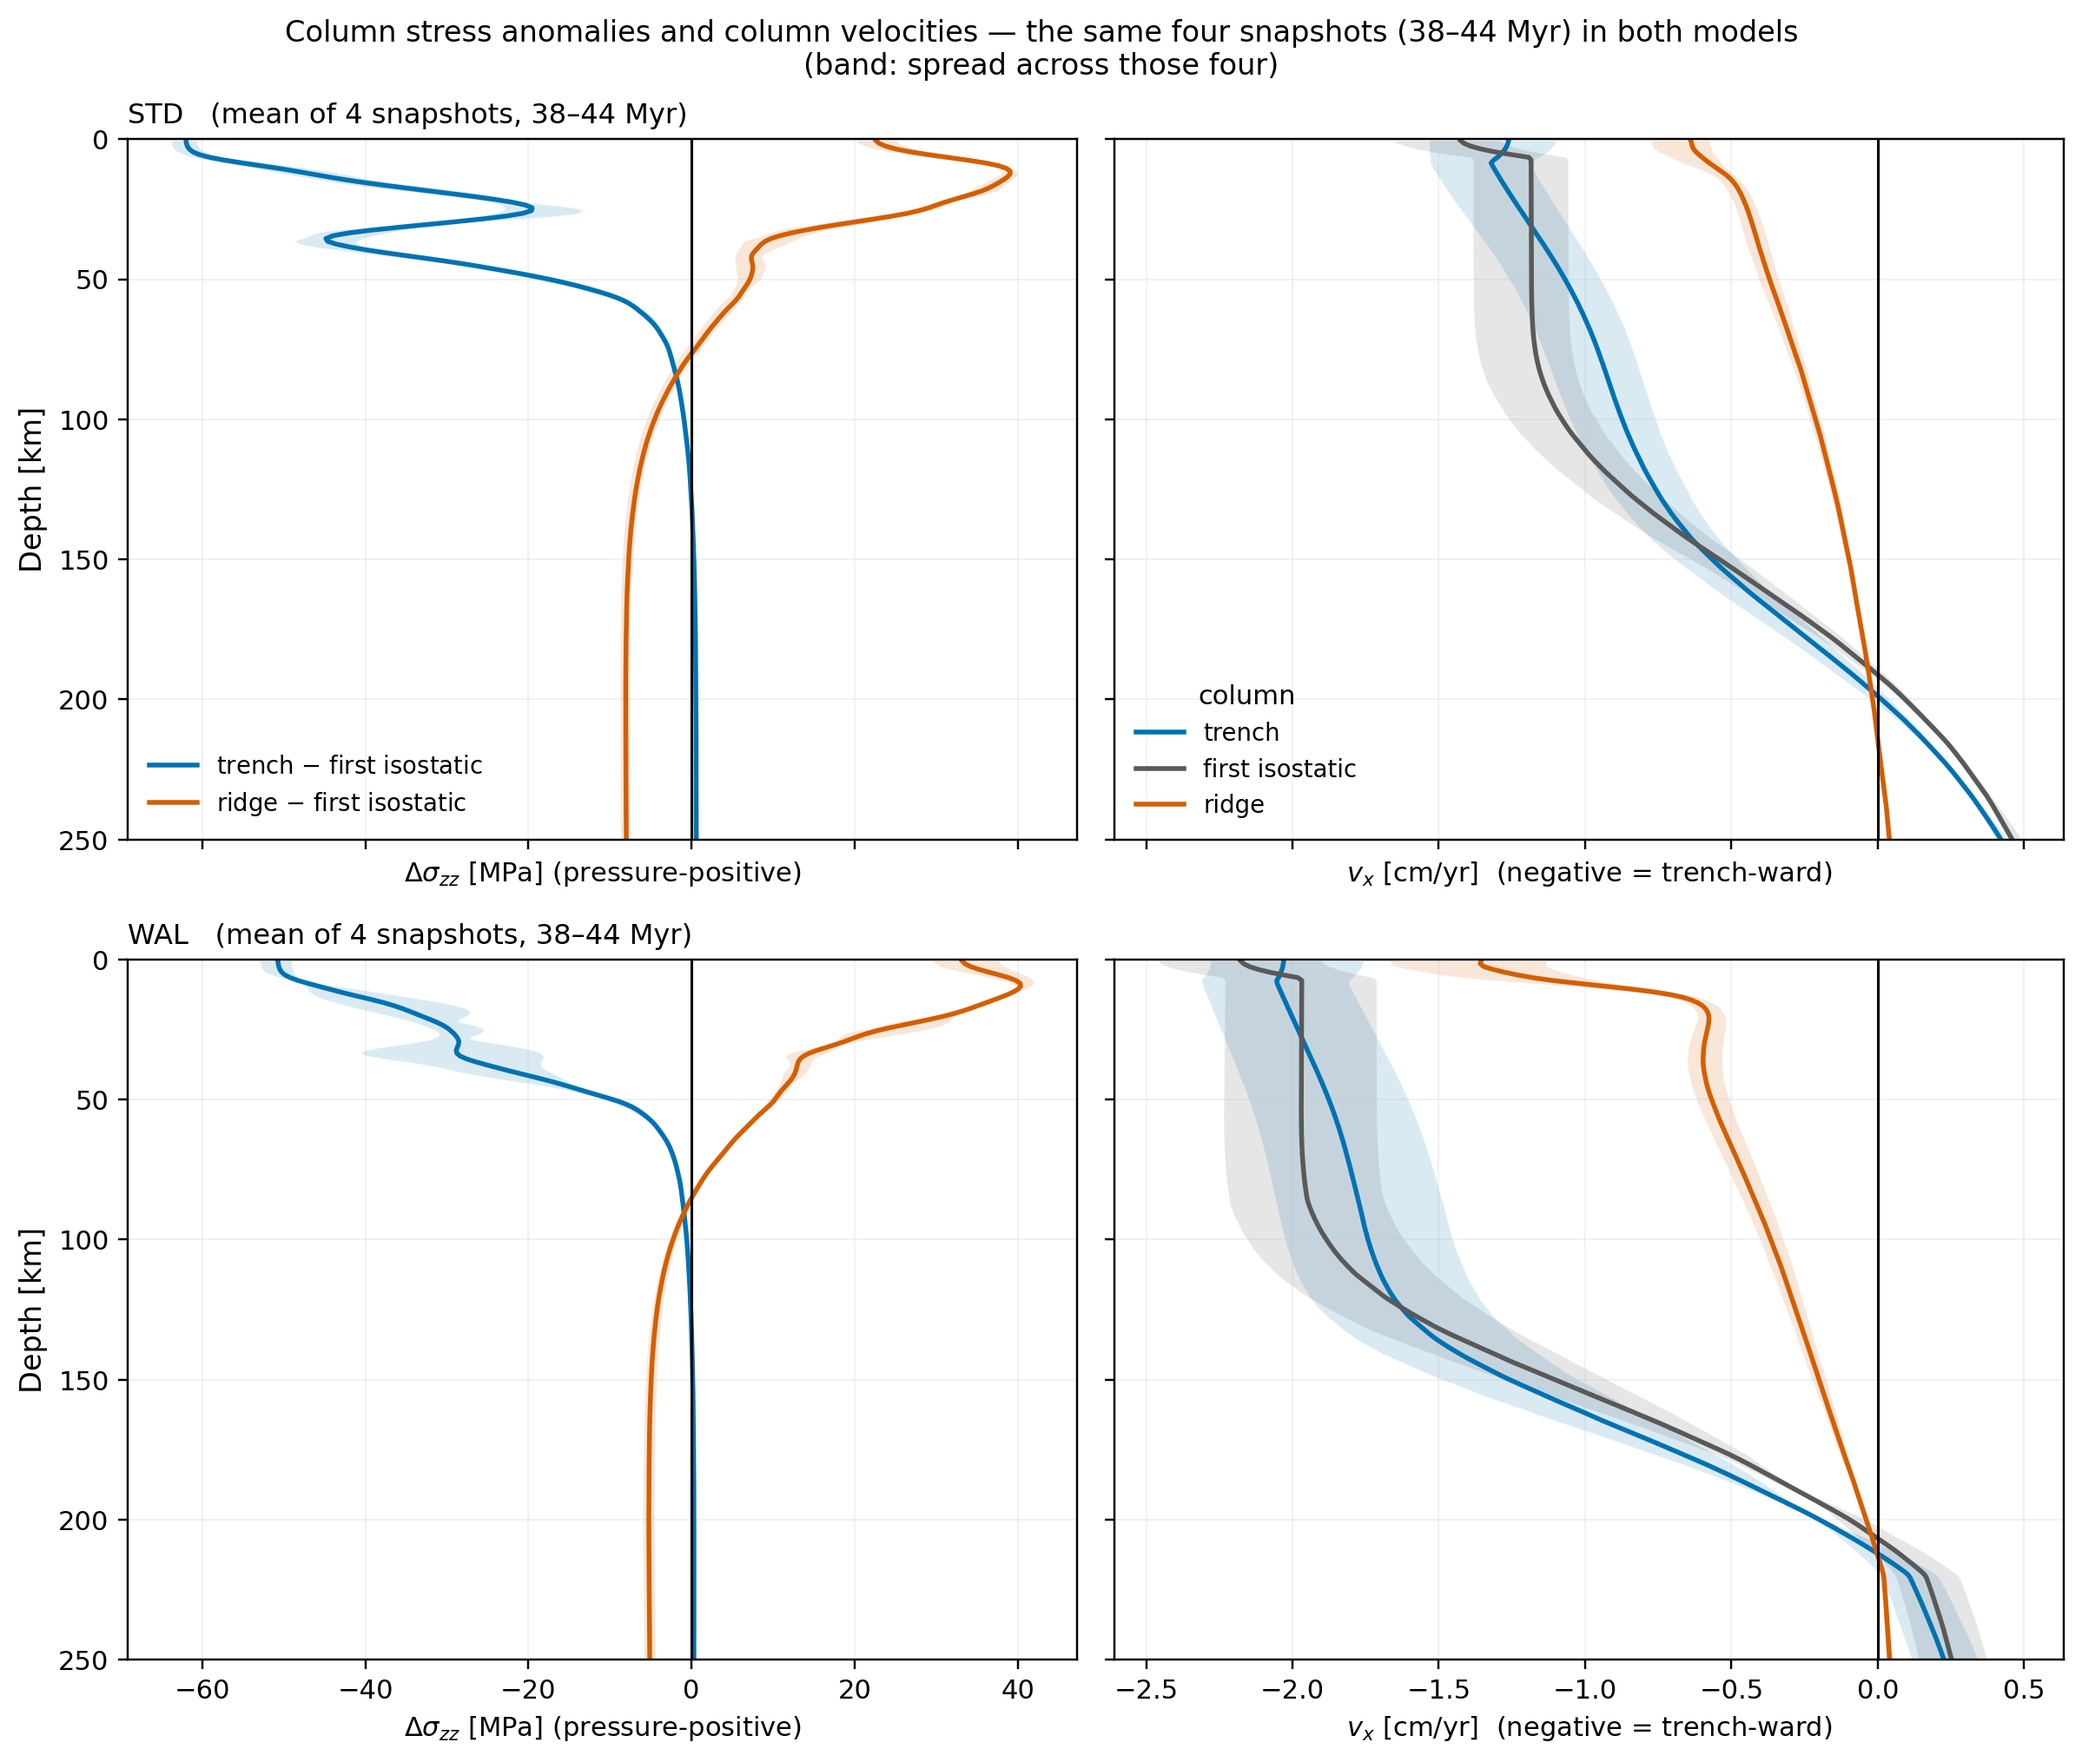
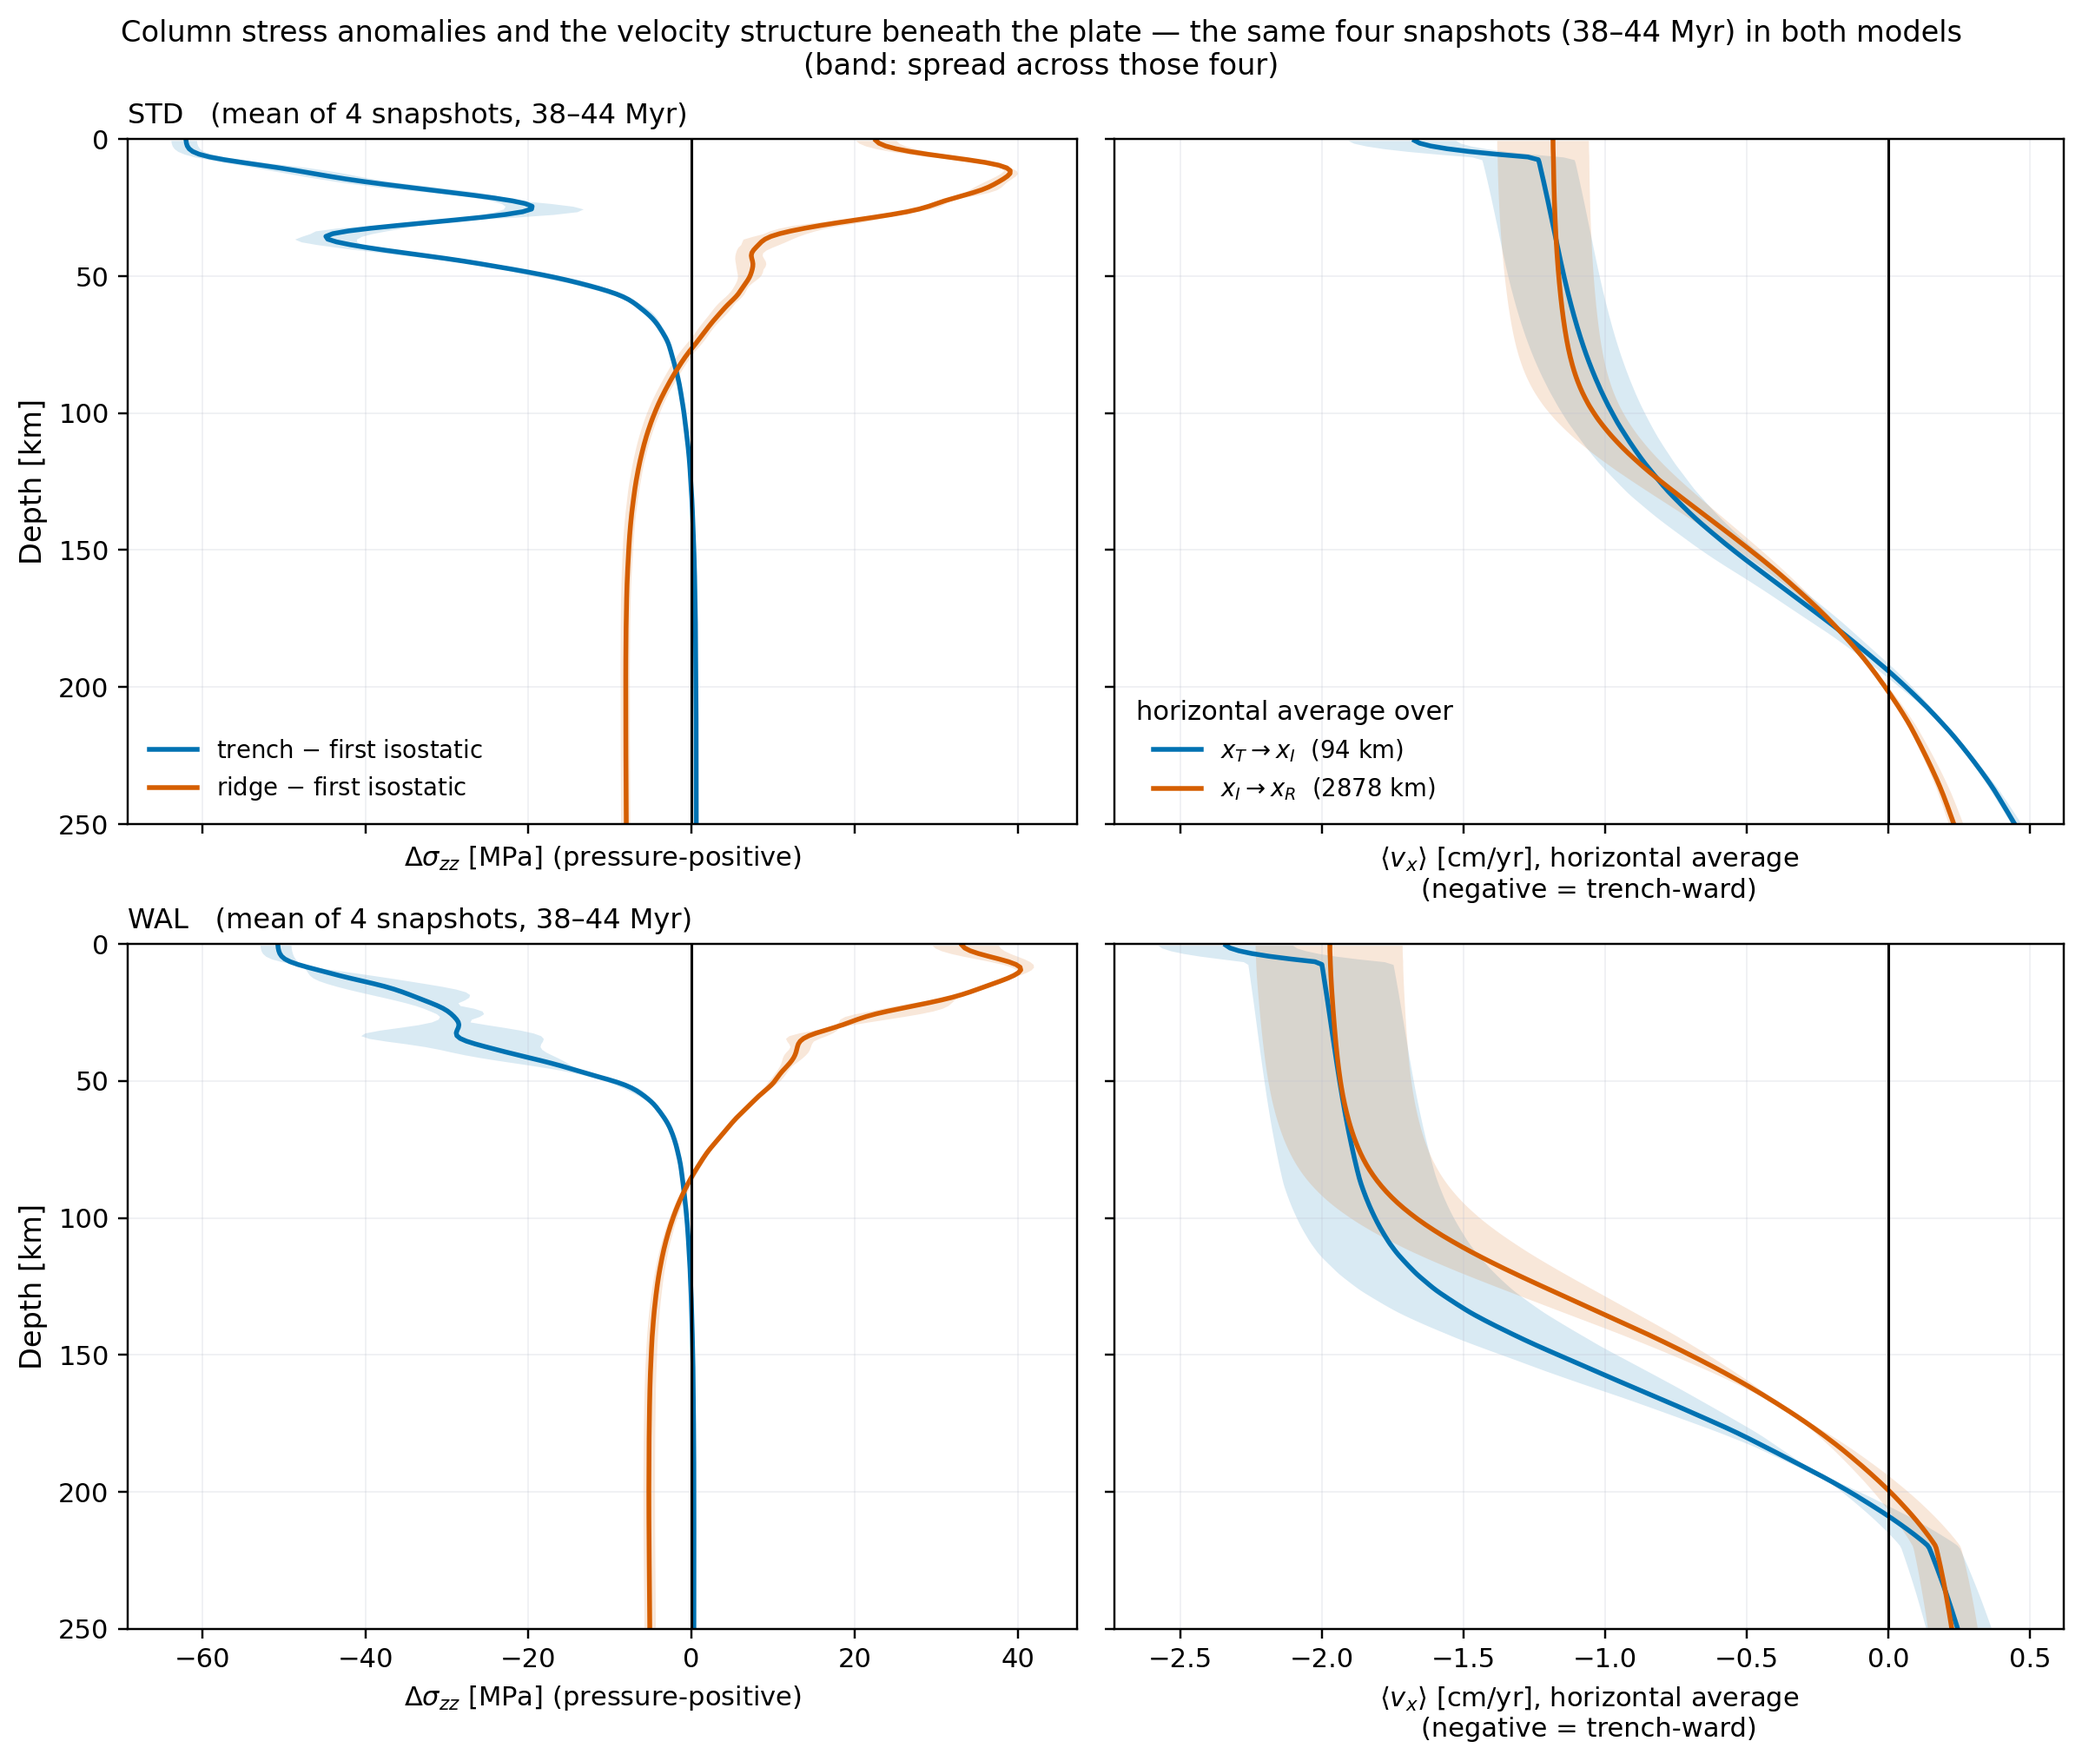
fig_column_kinematics: horizontal domain averages, not column samples
Dan, 2026-09-21: the velocity panel should capture the flow structure
beneath the plate, which is a regional property -- so average v_x
horizontally over each domain rather than sampling three columns. Blue
is x_T -> x_I (the non-isostatic domain, ~95 km), orange x_I -> x_R (the
isostatic domain, ~2800 km), keeping the domain colours of the left
panel.

The whole-plate average is computed and tabulated but NOT drawn. The
isostatic domain is 2878 of 2972 km, so its average and the whole-plate
average agree to 0.01 cm/yr and the curves sat exactly on top of each
other -- drawing both would imply a distinction the data does not have.

What the averages show: the near-trench domain runs slightly faster than
the plate as a whole (-1.33 vs -1.18 cm/yr STD, -2.07 vs -1.97 WAL), and
both domains decouple downward over the same depth range, halving near
140 km and reversing into the return flow at 200 km in BOTH models --
the reversal depth is insensitive to the weak layer even though the
plate rate is not.

diff --git a/scripts/fig_column_kinematics.py b/scripts/fig_column_kinematics.py
@@ -10,11 +10,21 @@ one.
   left   Delta sigma_zz vs depth relative to the first isostatic column:
          trench (blue) and ridge (orange), in the schematic's domain
          colours (FIGURE_STYLE.md).
-  right  the horizontal velocity v_x in those same columns, plus the
-         first isostatic column itself. This is an INDEPENDENT
-         measurement: the stress panels say what force the columns carry,
-         the velocity panels say how the material in them is actually
-         moving, and nothing in one is derived from the other.
+  right  the horizontal velocity v_x, HORIZONTALLY AVERAGED over each
+         domain (Dan, 2026-09-21): x_T -> x_I in blue and x_I -> x_R in
+         orange. Column samples were tried first and rejected -- the
+         depth structure of the flow beneath the plate is a regional
+         property, and single columns carry local detail that has nothing
+         to do with it. This is an INDEPENDENT measurement: the stress
+         panels say what force the columns carry, the velocity panels say
+         how the material is actually moving, and nothing in one is
+         derived from the other.
+
+         The whole-plate average x_T -> x_R is computed and tabulated but
+         NOT drawn: the isostatic domain is 2878 of 2972 km (STD), so its
+         average and the whole-plate average agree to 0.01 cm/yr and the
+         two curves sit on top of each other. Plotting both would imply a
+         distinction the data does not contain.
 
 MATCHED SNAPSHOTS (Dan, 2026-09-21). Both columns, both the lines and the
 bands, use the SAME FOUR snapshots per model: t = 38, 40, 42, 44 Myr.
@@ -43,12 +53,13 @@ DRAFT CAPTION. Column stress anomalies and column velocities for STD
 (38-44 Myr), with the shaded band spanning those four. Left: the
 vertical normal stress anomaly of the trench column (blue) and ridge
 column (orange) relative to the first isostatic column. Right: the
-horizontal velocity in the same three columns. The trench and first
-isostatic columns translate together, so the non-isostatic domain that
-carries the trench pull moves as a unit; the ridge column moves at
-roughly half that rate, the spreading boundary condition rather than
-deformation within the plate. All three decouple downward over the same
-depth range and reverse into the return flow below about 200 km.
+horizontal velocity averaged over each domain: the non-isostatic domain
+x_T to x_I (blue) and the isostatic domain x_I to x_R (orange). The
+near-trench domain moves slightly faster than the plate as a whole
+(-1.33 against -1.18 cm/yr in STD, -2.07 against -1.97 in WAL), and both
+decouple downward over the same depth range, falling to half the surface
+rate near 140 km and reversing into the return flow at about 200 km in
+both models.
 """
 import os, sys, glob
 import numpy as np
@@ -116,7 +127,16 @@ def one_snapshot(key, t_target):
     out = dict(z=z, t=t, xT=xT, xI=x[iI], xR=x[iR])
     for nm, j in (('T', ti), ('I', iI), ('R', iR)):
         out[f'szz_{nm}'] = ca(szz, j)
-        out[f'vx_{nm}'] = ca(vx, j)
+    # velocity is taken as a HORIZONTAL AVERAGE over each domain, not
+    # column-sampled (Dan, 2026-09-21): the depth structure of the flow
+    # beneath the plate is a regional property, and single columns sample
+    # local detail that has nothing to do with it.
+    span = lambda f, j0, j1: f[:, min(j0, j1):max(j0, j1) + 1].mean(axis=1)
+    out['vx_TI'] = span(vx, ti, iI)        # non-isostatic / trench pull domain
+    out['vx_IR'] = span(vx, iI, iR)        # isostatic / ridge push domain
+    out['vx_TR'] = span(vx, ti, iR)        # whole trailing plate
+    out['len_TI_km'] = abs(x[iI] - xT) / 1e3
+    out['len_IR_km'] = abs(x[iR] - x[iI]) / 1e3
     return out
 
 
@@ -132,9 +152,9 @@ def main():
         # pressure-register anomalies relative to x_I, as in the cache
         pT = sm(stack(lambda s: -(s['szz_T'] - s['szz_I']))) / 1e6
         pR = sm(stack(lambda s: -(s['szz_R'] - s['szz_I']))) / 1e6
-        vT = stack(lambda s: s['vx_T'])
-        vI = stack(lambda s: s['vx_I'])
-        vR = stack(lambda s: s['vx_R'])
+        vTI = stack(lambda s: s['vx_TI'])
+        vIR = stack(lambda s: s['vx_IR'])
+        vTR = stack(lambda s: s['vx_TR'])
 
         a0, a1 = axes[r, 0], axes[r, 1]
         for arr, col, lab in ((pT, C_TRENCH, 'trench $-$ first isostatic'),
@@ -142,14 +162,18 @@ def main():
             a0.fill_betweenx(zkm, arr.min(axis=0), arr.max(axis=0), color=col,
                              alpha=0.15, lw=0)
             a0.plot(arr.mean(axis=0), zkm, '-', color=col, lw=1.8, label=lab)
-        for arr, col, lab in ((vT, C_TRENCH, 'trench'), (vI, C_ISO, 'first isostatic'),
-                              (vR, C_RIDGE, 'ridge')):
+        L_TI = np.mean([s['len_TI_km'] for s in snaps])
+        L_IR = np.mean([s['len_IR_km'] for s in snaps])
+        for arr, col, lw, lab in (
+                (vTI, C_TRENCH, 1.8, f'$x_T\\to x_I$  ({L_TI:.0f} km)'),
+                (vIR, C_RIDGE, 1.8, f'$x_I\\to x_R$  ({L_IR:.0f} km)')):
             a1.fill_betweenx(zkm, arr.min(axis=0), arr.max(axis=0), color=col,
                              alpha=0.15, lw=0)
-            a1.plot(arr.mean(axis=0), zkm, '-', color=col, lw=1.8, label=lab)
+            a1.plot(arr.mean(axis=0), zkm, '-', color=col, lw=lw, label=lab)
 
         a0.set_xlabel(r'$\Delta\sigma_{zz}$ [MPa] (pressure-positive)', fontsize=10)
-        a1.set_xlabel(r'$v_x$ [cm/yr]  (negative = trench-ward)', fontsize=10)
+        a1.set_xlabel(r'$\langle v_x\rangle$ [cm/yr], horizontal average'
+                      '\n(negative = trench-ward)', fontsize=10)
         a0.set_ylabel('Depth [km]', fontsize=11)
         a0.set_title(f'{key}   (mean of {len(SNAP_MYR)} snapshots, '
                      f'{SNAP_MYR[0]:.0f}–{SNAP_MYR[-1]:.0f} Myr)',
@@ -158,37 +182,35 @@ def main():
             ax.axvline(0, color='k', lw=1.0)
             ax.grid(alpha=0.25, color=C_RULE, lw=0.6)
 
-        vm = vI.mean(axis=0)
+        vm = vTR.mean(axis=0)
         surf = vm[zkm < 20].mean()
-        # base of coherent translation: where |v_x| has fallen to half the
-        # plate value -- a measured level, not an assumed thickness
+        # base of coherent translation: where the horizontally averaged
+        # |v_x| has fallen to half the plate value -- a MEASURED level,
+        # not an assumed thickness
         below = np.where(np.abs(vm) < 0.5 * abs(surf))[0]
         z_half = zkm[below[0]] if len(below) else np.nan
         rev = np.where((np.sign(vm[:-1]) != np.sign(vm[1:])) & (zkm[:-1] > 50))[0]
         z_rev = zkm[rev[0]] if len(rev) else np.nan
-        print(f'{key}: plate v_x {surf:+.2f} cm/yr; |v| halves at {z_half:.0f} km; '
-              f'flow reverses at {z_rev:.0f} km; trench-minus-ridge surface v_x '
-              f'{vT.mean(axis=0)[zkm < 20].mean() - vR.mean(axis=0)[zkm < 20].mean():+.3f}; '
-              f'trench-minus-x_I {(vT - vI).mean(axis=0)[zkm < 20].mean():+.3f}')
+        sfc = lambda a: a.mean(axis=0)[zkm < 20].mean()
+        print(f'{key}: plate <v_x> {surf:+.2f} cm/yr; |v| halves at {z_half:.0f} km; '
+              f'flow reverses at {z_rev:.0f} km; domain means at the surface '
+              f'x_T->x_I {sfc(vTI):+.2f} ({L_TI:.0f} km), '
+              f'x_I->x_R {sfc(vIR):+.2f} ({L_IR:.0f} km)')
         rows += [(key, 'plate_vx_surface_cm_yr', f'{surf:.3f}'),
                  (key, 'depth_vx_half_plate_km', f'{z_half:.0f}'),
                  (key, 'depth_vx_reversal_km', f'{z_rev:.0f}'),
-                 (key, 'vx_trench_surface_cm_yr',
-                  f'{vT.mean(axis=0)[zkm < 20].mean():.3f}'),
-                 (key, 'vx_ridge_surface_cm_yr',
-                  f'{vR.mean(axis=0)[zkm < 20].mean():.3f}'),
-                 (key, 'vx_first_isostatic_surface_cm_yr',
-                  f'{vI.mean(axis=0)[zkm < 20].mean():.3f}'),
-                 (key, 'vx_trench_minus_first_isostatic_cm_yr',
-                  f'{(vT - vI).mean(axis=0)[zkm < 20].mean():.3f}'),
-                 (key, 'vx_ridge_over_trench_surface',
-                  f'{vR.mean(axis=0)[zkm < 20].mean() / vT.mean(axis=0)[zkm < 20].mean():.3f}'),
+                 (key, 'vx_trench_to_isostatic_surface_cm_yr', f'{sfc(vTI):.3f}'),
+                 (key, 'vx_isostatic_to_ridge_surface_cm_yr', f'{sfc(vIR):.3f}'),
+                 (key, 'domain_length_trench_to_isostatic_km', f'{L_TI:.0f}'),
+                 (key, 'domain_length_isostatic_to_ridge_km', f'{L_IR:.0f}'),
                  (key, 'n_snapshots', str(len(SNAP_MYR)))]
 
     axes[0, 0].set_ylim(Z_PLOT_KM, 0)
     axes[0, 0].legend(frameon=False, fontsize=9, loc='lower left')
-    axes[0, 1].legend(frameon=False, fontsize=9, loc='lower left', title='column')
-    fig.suptitle('Column stress anomalies and column velocities — the same four '
+    axes[0, 1].legend(frameon=False, fontsize=9, loc='lower left',
+                      title='horizontal average over')
+    fig.suptitle('Column stress anomalies and the velocity structure beneath the plate '
+                 '— the same four '
                  f'snapshots ({SNAP_MYR[0]:.0f}–{SNAP_MYR[-1]:.0f} Myr) in both models\n'
                  '(band: spread across those four)', fontsize=11)
     fig.tight_layout()
